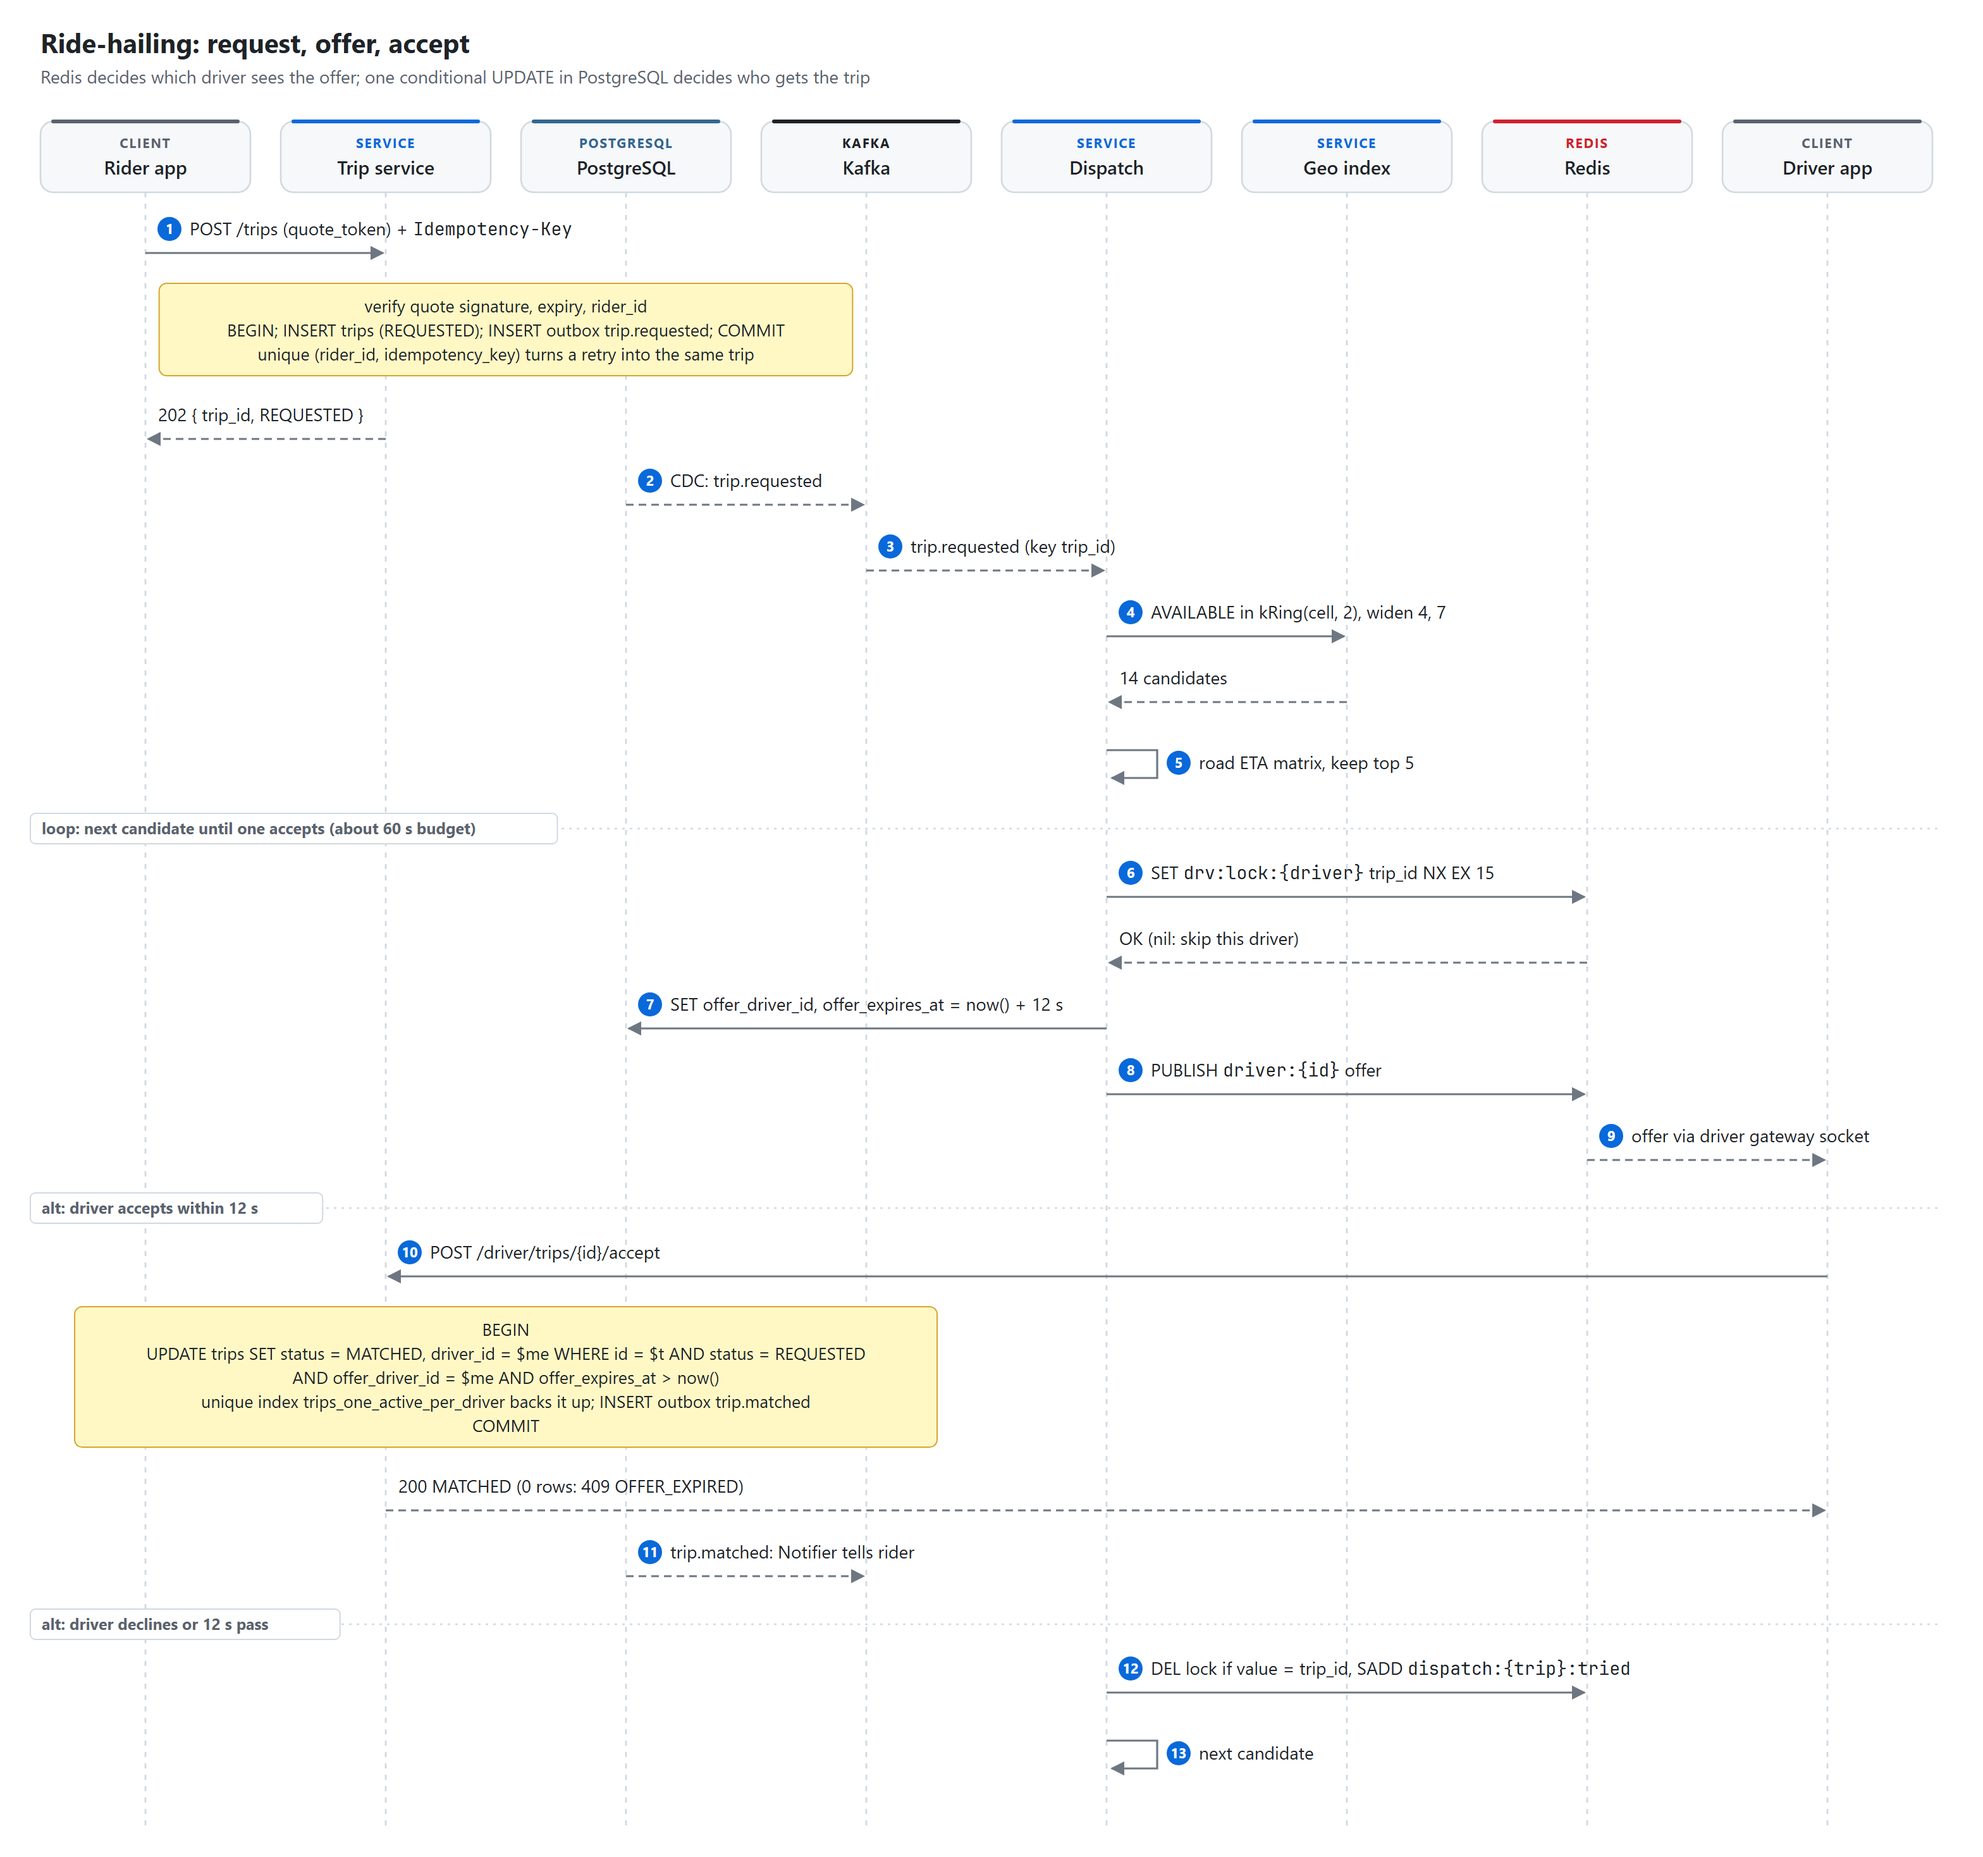
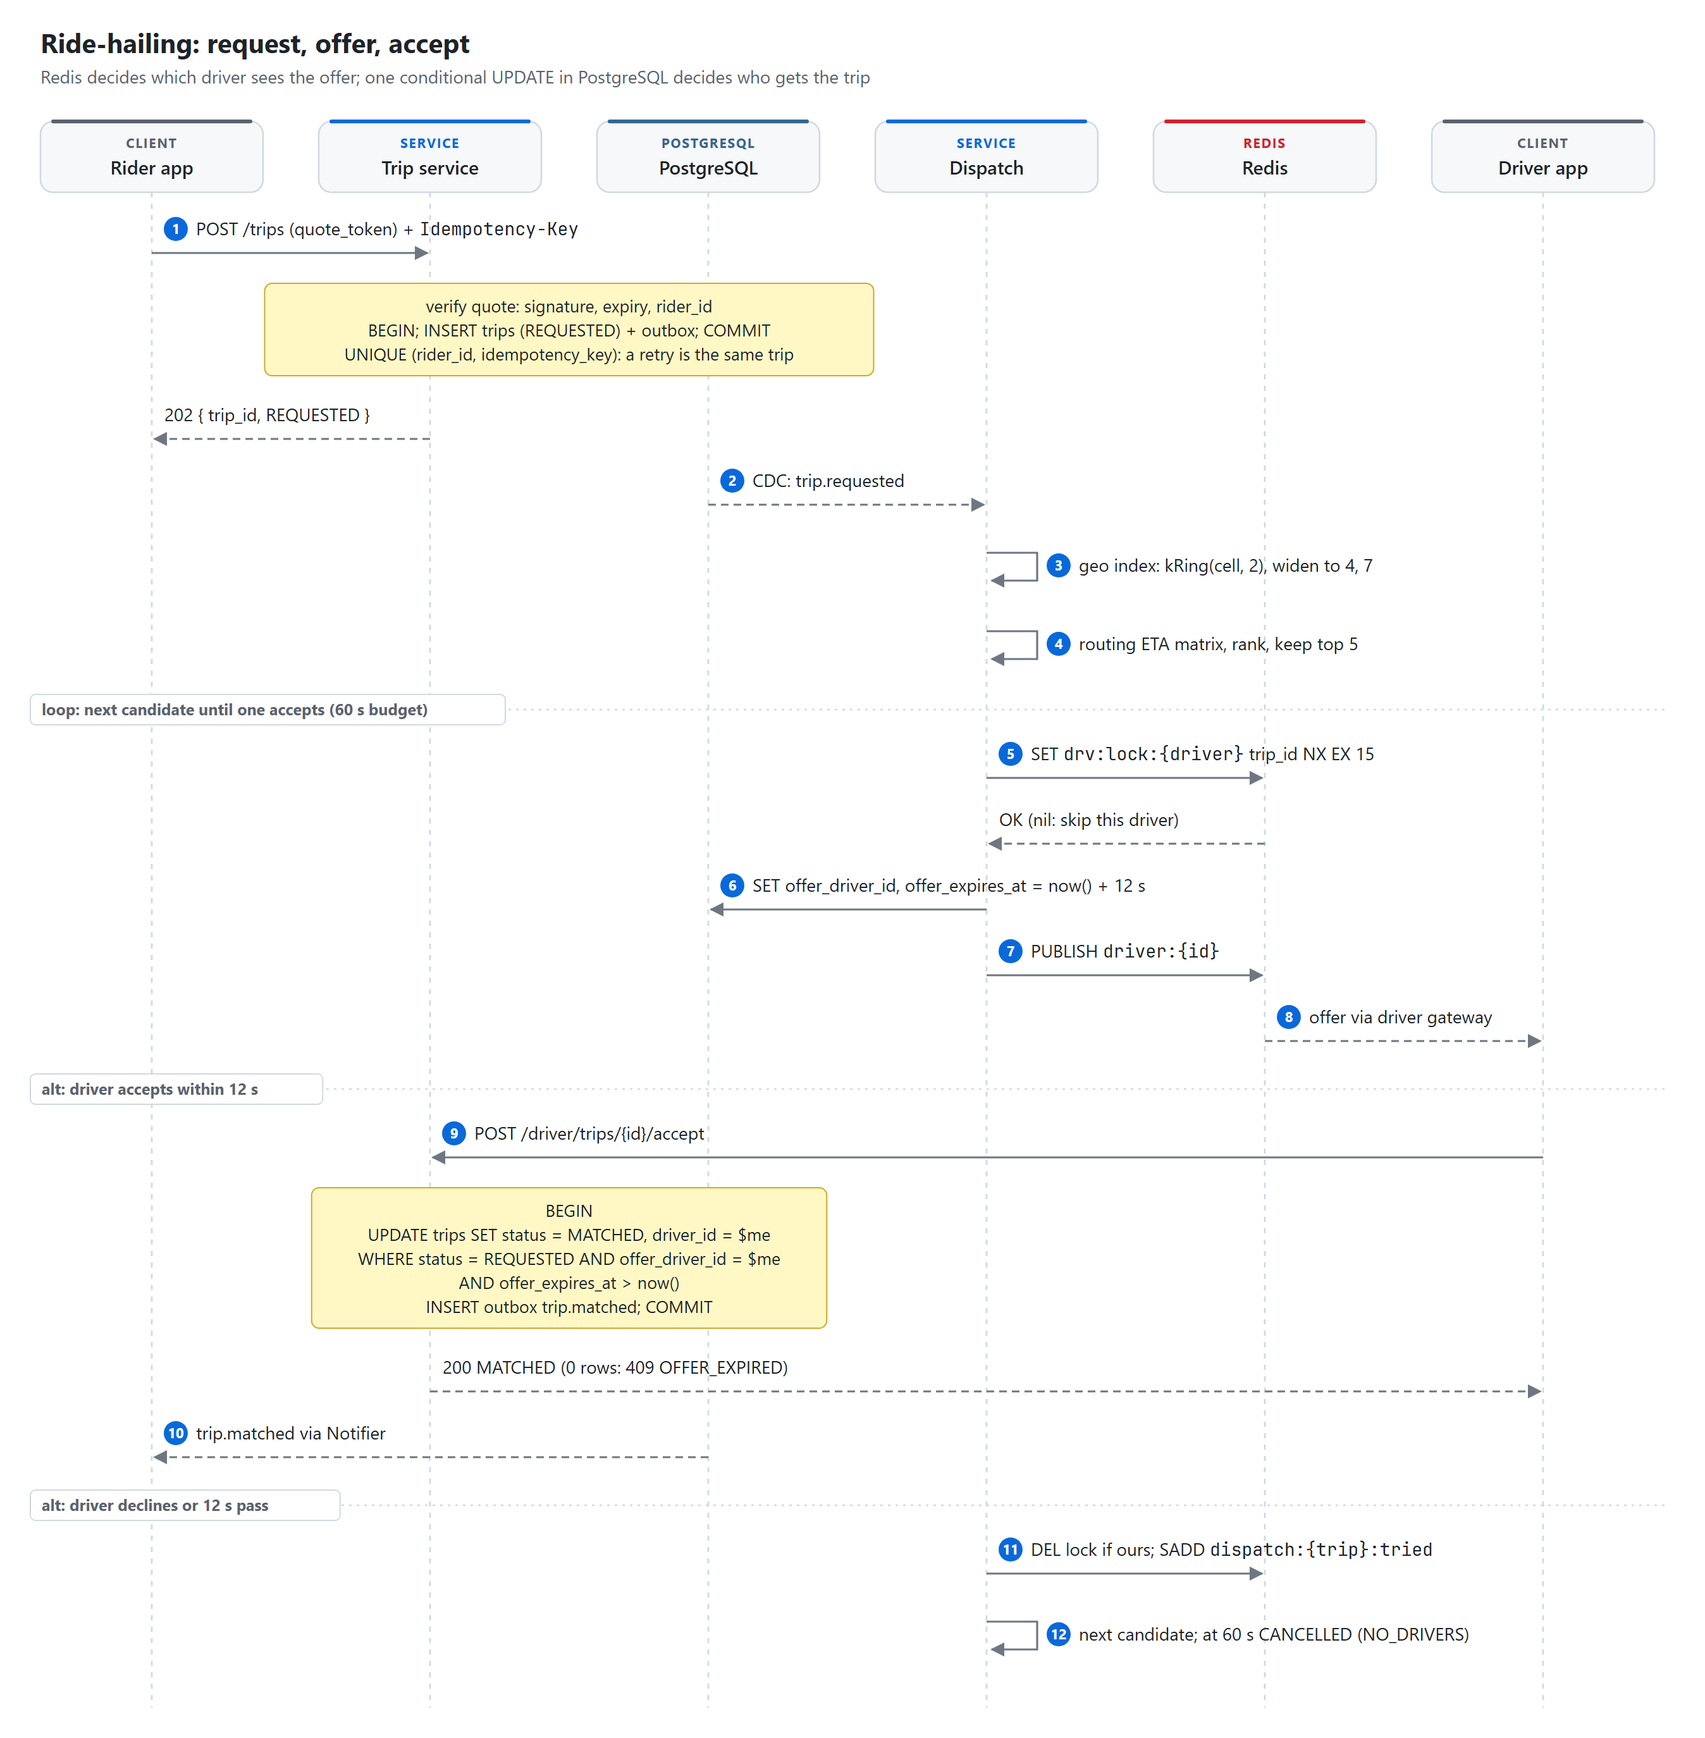
Draw the ride-hailing flows as sequence diagrams

diff --git a/designs/location-based/ride-hailing/README.md b/designs/location-based/ride-hailing/README.md
@@ -279,64 +279,79 @@ Location topics have 6 h retention and run on their own cluster, so a location s
 
 ## 6. Request flows
 
-<picture>
-  <source media="(prefers-color-scheme: dark)" srcset="diagrams/dispatch-flow-dark.png">
-  <img alt="Sequence: rider creates a trip, CDC delivers trip.requested to Dispatch, Dispatch queries the geo index, ranks by ETA, locks a driver in Redis, writes the offer columns, publishes the offer; the driver accepts and a conditional UPDATE moves the trip to MATCHED." src="diagrams/dispatch-flow-light.png">
-</picture>
+The diagrams carry the detail; the numbered steps under each one match the numbers in the diagram.
 
 **Driver location update** (every 4 s per driver)
 
+<picture>
+  <source media="(prefers-color-scheme: dark)" srcset="diagrams/location-update-dark.png">
+  <img alt="Sequence: the driver app sends a location ping to the driver gateway, which validates it, computes the H3 cell, produces it to Kafka, and for on-trip drivers publishes it to Redis and appends it to the trip path. Geo index replicas and the S3 sink consume the topic." src="diagrams/location-update-light.png">
+</picture>
+
 1. The app sends `loc` with `seq` and device time over the socket.
-2. The gateway drops it if `seq` is not greater than the last one on this connection, or if the implied speed
-   from the previous point is over 250 km/h (GPS jump). It stamps server time, computes the H3 res-9 cell.
-3. The gateway produces to `locations.{region}` with key driver_id, `acks=1`, 5 ms linger. Losing a ping is
-   fine; the next one is 4 s away.
-4. If the driver has an active trip (`drv:trip:{id}`, cached on the connection), it also publishes the point to
-   `trip:{trip_id}` and appends it to `trip:path:{trip_id}`.
-5. Geo index replicas apply the ping: update the driver record, move the driver between cell sets if the cell
-   changed, drop the driver from cell sets if the status is not AVAILABLE.
+2. The gateway drops out-of-order pings and GPS jumps (implied speed over 250 km/h).
+3. It stamps server time and computes the H3 res-9 cell and the region.
+4. It produces to `locations.{region}`, key driver_id, `acks=1`, 5 ms linger. A lost ping is fine; the next is 4 s away.
+5. On-trip drivers only: the point goes to `trip:{trip_id}` for the rider's live map.
+6. And to `trip:path:{trip_id}` for the final fare.
+7. Every geo index replica applies the batch (section 7.1).
+8. The S3 sink archives the topic as Parquet.
 
 **Fare estimate**
 
-1. Rider sends pickup, dropoff, vehicle type. Pricing gets the route (distance, duration) from Routing.
-2. Pricing reads `surge:{res7 cell of pickup}` (missing key means 1.0) and the regional rate card.
-3. Pricing asks the geo index for the nearest few available drivers to compute the pickup ETA shown in the app.
-4. It returns a quote token: HMAC over `{quote_id, rider_id, pickup, dropoff, vehicle_type, fare_cents, surge,
-   expires_at = now + 5 min, key_id}`. Nothing is stored; the quote event goes to `pricing.quotes`.
+<picture>
+  <source media="(prefers-color-scheme: dark)" srcset="diagrams/fare-estimate-dark.png">
+  <img alt="Sequence: Pricing gets the route from Routing, the surge multiplier from Redis, nearby drivers from the geo index and their ETA from Routing, then signs a quote token, emits a quote event to Kafka and returns the token." src="diagrams/fare-estimate-light.png">
+</picture>
 
-**Request, match, accept** (the diagram above)
+1. Rider sends pickup, dropoff and vehicle type.
+2. Pricing gets distance and duration from Routing.
+3. It reads `surge:{res-7 cell}`; a missing key means 1.0.
+4. It asks the geo index for the nearest available drivers.
+5. Routing turns them into the pickup ETA shown in the app.
+6. Pricing signs the quote (HMAC, valid 5 minutes), emits it to `pricing.quotes` and returns the token. Nothing is stored.
 
-1. `POST /trips` with the quote token and an `Idempotency-Key`. The Trip service verifies the signature, the
-   expiry and that the token belongs to this rider.
-2. One transaction: `INSERT trips (REQUESTED)` with the quoted price copied onto the row, plus an outbox row.
-   The partial unique index rejects a second active trip for the rider. Returns 202.
-3. Debezium publishes `trip.requested` (key trip_id). Dispatch and the Payment service both consume it.
-4. Dispatch queries the geo index replica for the region: available drivers of the right vehicle type in
-   `kRing(pickup_cell, 2)`, widening to 4, then 7, until it has at least 8 candidates.
-5. Dispatch asks Routing for a one-to-many ETA matrix from the candidates to the pickup, ranks, keeps the top 5.
-6. For the best candidate: `SET drv:lock:{driver} {trip_id} NX EX 15`. If it fails, someone else is offering
-   to that driver; skip.
-7. `UPDATE trips SET offer_driver_id = $d, offer_expires_at = now() + interval '12 s' WHERE id = $t AND status = 'REQUESTED'`.
-   Zero rows means the rider cancelled; release the lock and stop.
-8. `PUBLISH driver:{id}` with the offer. The gateway node holding that socket forwards it.
-9. Driver accepts: the conditional UPDATE in the deep dive below moves the trip to MATCHED. Zero rows returns
-   409. The outbox emits `trip.matched`; the Notifier tells the rider; the Trip service sets `drv:trip:{id}`.
-10. Decline or 12 s timeout: compare-and-delete the lock, add the driver to `dispatch:{trip}:tried`, go to the
-    next candidate. After the list is exhausted, widen the ring. After 60 s with no match, the trip is
-    CANCELLED by SYSTEM with reason `NO_DRIVERS` and the rider is told.
+**Request, match, accept**
+
+<picture>
+  <source media="(prefers-color-scheme: dark)" srcset="diagrams/dispatch-flow-dark.png">
+  <img alt="Sequence: rider creates a trip, CDC delivers trip.requested to Dispatch, Dispatch searches the geo index, ranks by ETA, locks a driver in Redis, writes the offer columns, publishes the offer; the driver accepts and a conditional UPDATE moves the trip to MATCHED." src="diagrams/dispatch-flow-light.png">
+</picture>
+
+1. `POST /trips` with the quote token and an `Idempotency-Key`; one transaction inserts the trip and an outbox
+   row. Returns 202.
+2. Debezium publishes `trip.requested`; Dispatch (and the Payment service) consume it.
+3. Dispatch queries the geo index ring by ring until it has at least 8 candidates (section 7.1).
+4. A one-to-many ETA matrix from Routing ranks them; keep the top 5.
+5. `SET NX` the driver lock. If it fails, someone else is offering to that driver; skip.
+6. Write the offer columns, `WHERE status = 'REQUESTED'`. Zero rows means the rider cancelled; stop.
+7. Publish the offer on `driver:{id}`.
+8. The gateway node holding that socket forwards it.
+9. Driver accepts; the conditional UPDATE (section 7.2) moves the trip to MATCHED or returns 409.
+10. The outbox emits `trip.matched`; the Notifier tells the rider.
+11. On decline or timeout: release the lock if it is still ours and remember the driver as tried.
+12. Next candidate. After 60 s with no match the trip is CANCELLED by SYSTEM with `NO_DRIVERS`.
 
 **Trip and payment**
 
-1. Payment service, on `trip.requested`: `INSERT payments (AUTH_PENDING) ON CONFLICT DO NOTHING`, then
-   authorize the quoted fare plus 20% with idempotency key `auth-{trip_id}`. This runs in parallel with
-   dispatch; it does not block matching.
-2. Driver taps arrived (or is within 150 m of pickup): DRIVER_ARRIVING, wait timer starts.
-3. Driver enters the rider's PIN: IN_PROGRESS. The rider watches the car through `trip:{trip_id}`.
-4. Driver ends the trip: the Trip service reads `trip:path:{id}`, computes distance, writes the polyline to S3,
-   sets `final_fare_cents` (the quote, unless the rules below apply) and COMPLETED, in one transaction with
-   the outbox row.
-5. Payment service, on `trip.completed`: capture with key `capture-{trip_id}`, mark CAPTURED, emit
-   `payment.captured`; the Notifier sends the receipt.
+<picture>
+  <source media="(prefers-color-scheme: dark)" srcset="diagrams/trip-payment-dark.png">
+  <img alt="Sequence: on trip.requested the Payment service inserts a payment row and authorizes with key auth-trip_id. The driver marks arrived and start, each a conditional UPDATE. On complete, the Trip service reads the path from Redis, finalizes the fare and commits COMPLETED; on trip.completed the Payment service captures with key capture-trip_id." src="diagrams/trip-payment-light.png">
+</picture>
+
+1. `trip.requested` reaches the Payment service, in parallel with dispatch.
+2. It inserts the payment row; a redelivered event changes nothing.
+3. It authorizes the quote plus 20%, keyed `auth-{trip_id}`.
+4. The row becomes AUTHORIZED.
+5. Driver taps arrived, or the 150 m geofence fires.
+6. MATCHED to DRIVER_ARRIVING; the wait timer starts.
+7. Driver enters the rider's PIN.
+8. DRIVER_ARRIVING to IN_PROGRESS; the rider watches the car on `trip:{trip_id}`.
+9. Driver ends the trip.
+10. The Trip service reads the path, computes the distance and final fare, and commits COMPLETED with the outbox row.
+11. `trip.completed` reaches the Payment service.
+12. Capture the final fare, keyed `capture-{trip_id}`; a timeout is retried with the same key.
+13. The row becomes CAPTURED and `payment.captured` triggers the receipt.
 
 ## 7. Deep dives
 
@@ -369,10 +384,23 @@ every 5 s: evict drivers with ts older than 30 s           # app killed, tunnel,
 query(cell, k, type): union cells[c] for c in kRing(cell, k), filter type, sort by straight-line distance
 ```
 
+<picture>
+  <source media="(prefers-color-scheme: dark)" srcset="diagrams/geo-index-dark.png">
+  <img alt="Sequence: the gateway produces pings to Kafka, each geo index replica consumes them in its own group; on restart the replica seeks to now minus 30 s and replays; Dispatch queries ring k = 2, widens to k = 4, gets an ETA matrix from Routing and ranks." src="diagrams/geo-index-light.png">
+</picture>
+
+1. The gateway produces each ping, keyed by driver id.
+2. Every replica consumes the whole region topic in its own consumer group and applies `apply(ping)`.
+3. Restart: seek to the offset for `now - 30 s` and replay. No snapshot.
+4. The replica reports ready once lag is under 1 s, usually 10 to 20 s after start.
+5. Dispatch asks for ring k = 2 (19 cells). Three drivers is fewer than the 8 it wants.
+6. It widens to k = 4 (61 cells) and gets 11, sorted by straight-line distance.
+7. Routing turns them into road ETAs.
+8. Rank by ETA, then heading and idle time; keep the top 5 for offers.
+
 The largest region has a few hundred thousand drivers, ~75k pings per second: one process with a few consumer
-threads handles it, and memory is under 100 MB. Restart: the replica seeks its consumer to the offset for
-`now - 30 s` and replays; it reports ready once lag is under 1 s, usually within 10 to 20 s. No snapshot, no
-persistence: **the index is a 30-second cache of the stream**.
+threads handles it, and memory is under 100 MB. No snapshot, no persistence: **the index is a 30-second cache
+of the stream**.
 
 **Why not Redis GEO.** It is the right answer for one city at a few thousand updates per second. At this scale:
 each GEOADD is a network round trip on a sorted set, so 1.25M/s needs a large cluster just for writes;
@@ -455,17 +483,21 @@ wait 20 minutes and nobody new comes online. A higher price there reduces demand
 **Computation, on the stream.** A Flink job (Kafka Streams would also do; Flink earns its place with event-time
 windows and keyed state) keyed by H3 res-7 cell, about 5 km²:
 
-- Supply: distinct AVAILABLE drivers whose latest ping in the last 2 minutes falls in the cell.
-- Demand: distinct riders who asked for an estimate (`pricing.quotes`) or requested (`trip.events`) in the cell
-  in the last 2 minutes. Distinct, so one rider refreshing ten times counts once.
-- Every 30 s: `ratio = demand / max(supply, 1)`, `raw = clamp(1 + a * (ratio - 1), 1.0, cap)`, where `a` and
-  `cap` come from per-region config (some cities legally cap surge).
-- Smoothing: average with the ring-1 neighbours so adjacent cells do not differ by 1.5x across one street, and
-  limit the change per tick to +/-0.3 so the price does not flap.
-- Write `surge:{cell}` with TTL 120 s and emit to `surge.updates` for audit.
+<picture>
+  <source media="(prefers-color-scheme: dark)" srcset="diagrams/surge-pipeline-dark.png">
+  <img alt="Surge pipeline: location pings feed supply per cell, quotes and requests feed demand per cell; a Flink step computes the multiplier every 30 s, smooths it, writes surge:cell to Redis and surge.updates to Kafka; Pricing reads one key per estimate and locks it in the quote token." src="diagrams/surge-pipeline-light.png">
+</picture>
 
-**Reading it.** Pricing reads one Redis key per estimate. Every rider in the cell sees the same number for 30 s,
-which is fairer and far cheaper than computing surge per request.
+1. Supply: distinct AVAILABLE drivers whose latest ping in the last 2 minutes falls in the cell.
+2. Demand: distinct riders who asked for an estimate or requested in the cell in the last 2 minutes. One rider
+   refreshing ten times counts once.
+3. Every 30 s: `ratio = demand / max(supply, 1)`, `raw = clamp(1 + a * (ratio - 1), 1.0, cap)`. `a` and `cap`
+   are per-region config; some cities cap surge by law.
+4. Smoothing: average with the ring-1 neighbours so prices do not jump 1.5x across one street, and limit the
+   change per tick to +/-0.3 so the price does not flap.
+5. Write `surge:{cell}` with TTL 120 s; emit to `surge.updates` for audit.
+6. Pricing reads one key per estimate. Everyone in the cell sees the same number for 30 s, which is fairer and
+   far cheaper than computing surge per request.
 
 **Locking the price.** The multiplier and the fare are inside the signed quote token, valid 5 minutes. The rider
 pays what they saw, even if surge jumps one tick later. The token needs no storage: verification is an HMAC
